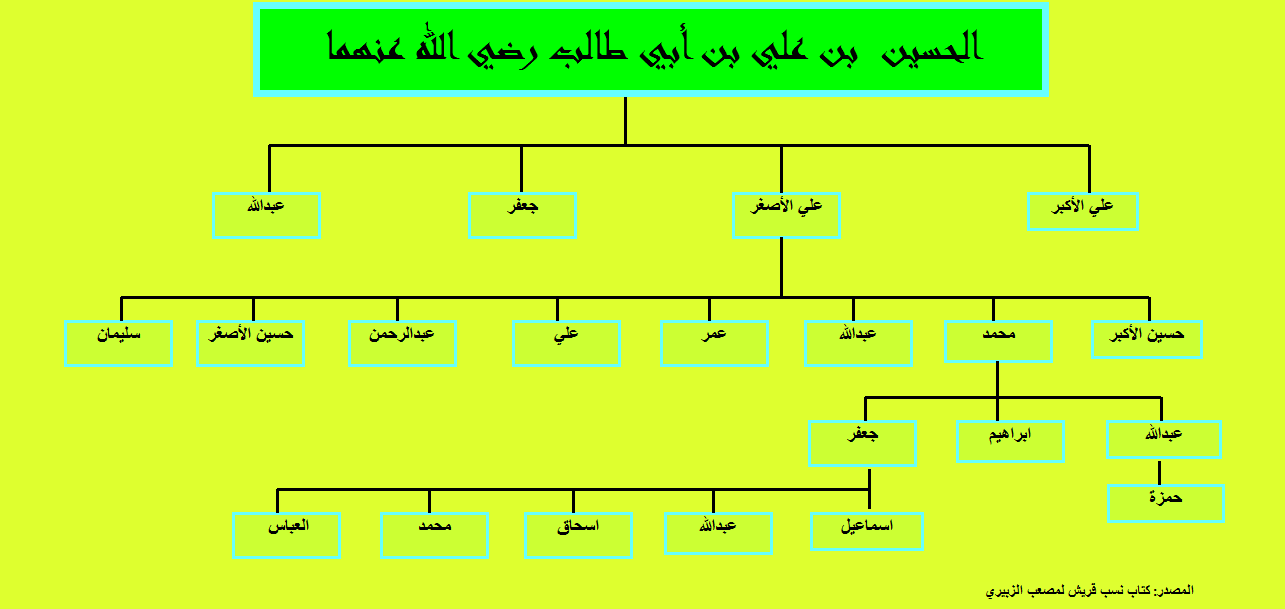
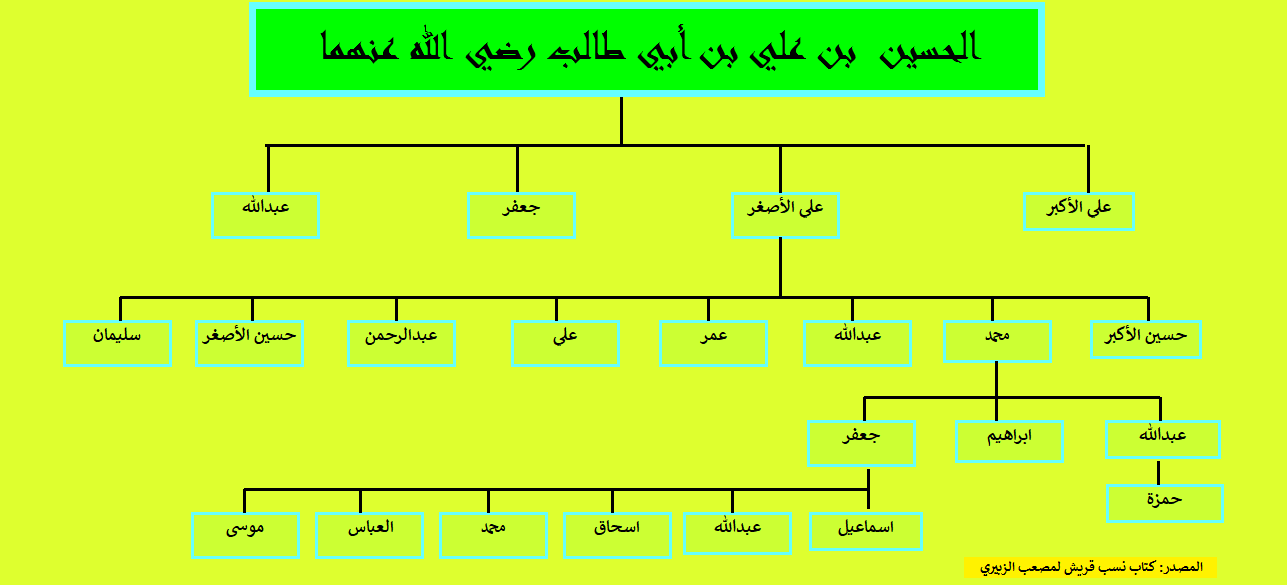
update

diff --git a/zaghroot.html b/zaghroot.html
@@ -1,0 +1,43 @@
+<!DOCTYPE html PUBLIC "-//W3C//DTD XHTML 1.0 Transitional//EN" "http://www.w3.org/TR/xhtml1/DTD/xhtml1-transitional.dtd">
+<html xmlns="http://www.w3.org/1999/xhtml">
+
+<head>
+<meta content="text/html; charset=utf-8" http-equiv="Content-Type" />
+<title>النسب الحسيني</title>
+<script type="text/javascript">
+<!--
+function FP_preloadImgs() {//v1.0
+ var d=document,a=arguments; if(!d.FP_imgs) d.FP_imgs=new Array();
+ for(var i=0; i<a.length; i++) { d.FP_imgs[i]=new Image; d.FP_imgs[i].src=a[i]; }
+}
+
+function FP_swapImg() {//v1.0
+ var doc=document,args=arguments,elm,n; doc.$imgSwaps=new Array(); for(n=2; n<args.length;
+ n+=2) { elm=FP_getObjectByID(args[n]); if(elm) { doc.$imgSwaps[doc.$imgSwaps.length]=elm;
+ elm.$src=elm.src; elm.src=args[n+1]; } }
+}
+
+function FP_getObjectByID(id,o) {//v1.0
+ var c,el,els,f,m,n; if(!o)o=document; if(o.getElementById) el=o.getElementById(id);
+ else if(o.layers) c=o.layers; else if(o.all) el=o.all[id]; if(el) return el;
+ if(o.id==id || o.name==id) return o; if(o.childNodes) c=o.childNodes; if(c)
+ for(n=0; n<c.length; n++) { el=FP_getObjectByID(id,c[n]); if(el) return el; }
+ f=o.forms; if(f) for(n=0; n<f.length; n++) { els=f[n].elements;
+ for(m=0; m<els.length; m++){ el=FP_getObjectByID(id,els[n]); if(el) return el; } }
+ return null;
+}
+// -->
+</script>
+</head>
+
+<body style="background-color: #DEFF2F" onload="FP_preloadImgs(/*url*/'button2065.gif',/*url*/'button2066.gif')">
+
+<img alt="" height="592" src="zaghroot.png" width="1286" />
+
+<div id="layer2" style="position: absolute; width: 112px; height: 23px; z-index: 2; left: 66px; top: 564px">
+	<a href="index1.html">
+	<img id="img2" alt="الأنساب القريشية" height="22" onmousedown="FP_swapImg(1,0,/*id*/'img2',/*url*/'button2066.gif')" onmouseout="FP_swapImg(0,0,/*id*/'img2',/*url*/'button2067.gif')" onmouseover="FP_swapImg(1,0,/*id*/'img2',/*url*/'button2065.gif')" onmouseup="FP_swapImg(0,0,/*id*/'img2',/*url*/'button2065.gif')" src="button2067.gif" style="border: 0" width="112" /><!-- MSComment="ibutton" fp-style="fp-btn: Metal Capsule 3; fp-font-style: Bold; fp-transparent: 1" fp-title="الأنساب القريشية" --></a></div>
+
+</body>
+
+</html>

diff --git a/alhusein-ben-ali.html b/alhusein-ben-ali.html
@@ -30,7 +30,7 @@ function FP_getObjectByID(id,o) {//v1.0
 </script>
 </head>
 
-<body onload="FP_preloadImgs(/*url*/'button1659.gif',/*url*/'button1660.gif',/*url*/'button2029.gif',/*url*/'button2030.gif')" style="background-color: #DEFF2F">
+<body onload="FP_preloadImgs(/*url*/'button1659.gif',/*url*/'button1660.gif',/*url*/'button2029.gif',/*url*/'button2030.gif',/*url*/'button2062.gif',/*url*/'button2063.gif')" style="background-color: #DEFF2F">
 
 <div id="layer1" style="position: absolute; width: 112px; height: 30px; z-index: 1; left: 9px; top: 18px">
 	<a href="index1.html">
@@ -38,6 +38,9 @@ function FP_getObjectByID(id,o) {//v1.0
 <div id="layer2" style="position: absolute; width: 100px; height: 34px; z-index: 2; left: 210px; top: 386px">
 	<a href="dowery1.html">
 	<img id="img2" alt="الأحفاد" height="20" onmousedown="FP_swapImg(1,0,/*id*/'img2',/*url*/'button2030.gif')" onmouseout="FP_swapImg(0,0,/*id*/'img2',/*url*/'button2031.gif')" onmouseover="FP_swapImg(1,0,/*id*/'img2',/*url*/'button2029.gif')" onmouseup="FP_swapImg(0,0,/*id*/'img2',/*url*/'button2029.gif')" src="button2031.gif" style="border: 0" width="100" /><!-- MSComment="ibutton" fp-style="fp-btn: Metal Capsule 6; fp-font-style: Bold; fp-transparent: 1" fp-title="الأحفاد" --></a></div>
+<div id="layer3" style="position: absolute; width: 100px; z-index: 3; left: 201px; top: 598px; height: 29px">
+	<a href="zaghroot.html">
+	<img id="img3" alt="الأحفاد" height="20" onmousedown="FP_swapImg(1,0,/*id*/'img3',/*url*/'button2063.gif')" onmouseout="FP_swapImg(0,0,/*id*/'img3',/*url*/'button2064.gif')" onmouseover="FP_swapImg(1,0,/*id*/'img3',/*url*/'button2062.gif')" onmouseup="FP_swapImg(0,0,/*id*/'img3',/*url*/'button2062.gif')" src="button2064.gif" style="border: 0" width="100" /><!-- MSComment="ibutton" fp-style="fp-btn: Metal Capsule 6; fp-font-style: Bold; fp-transparent: 1" fp-title="الأحفاد" --></a></div>
 <img alt="" height="609" src="alhusein-ben-ali.png" width="1285" />
 
 </body>
